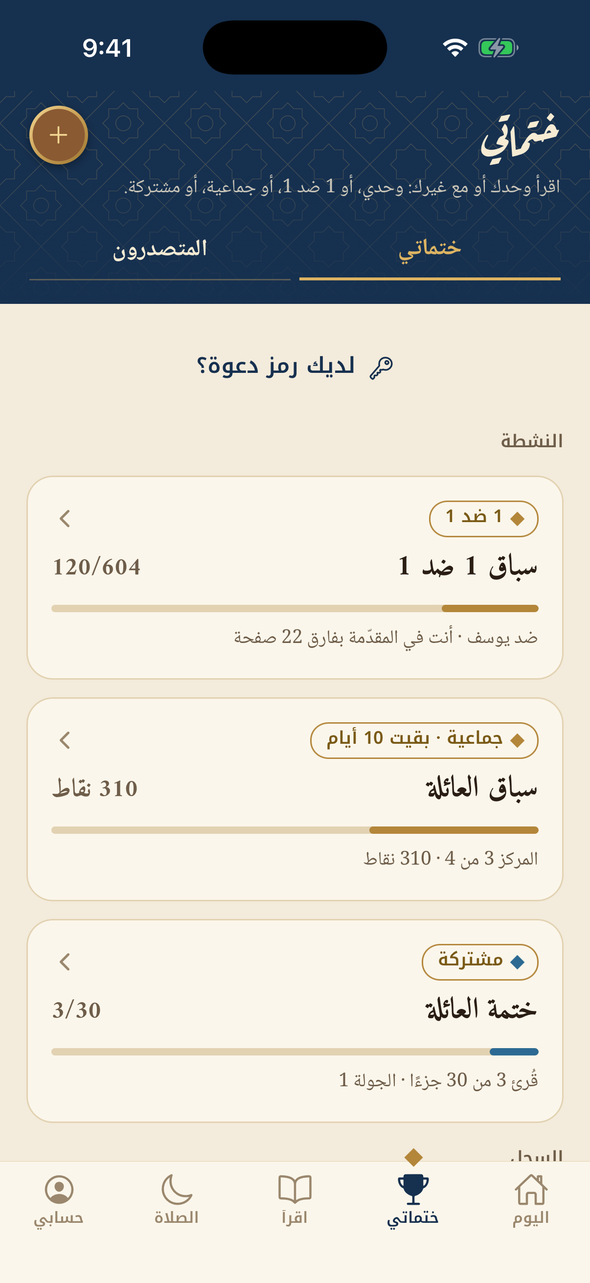
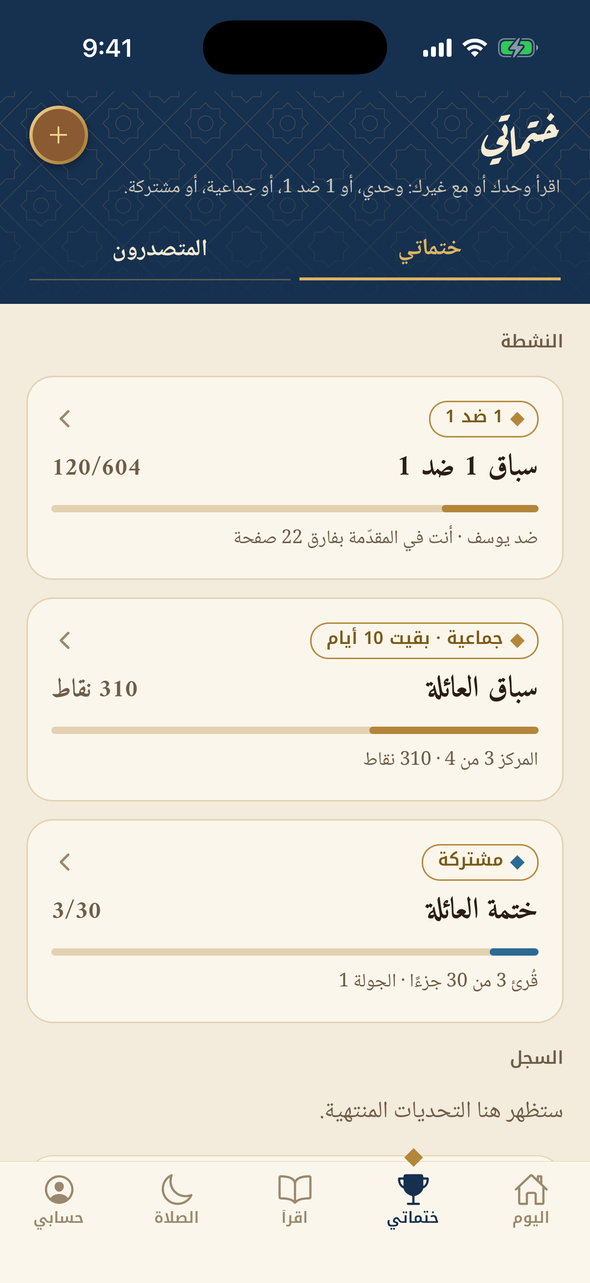
Fresh Arabic screenshots (Today, reader, prayer, new khatmah, my khatmahs); Qatar live; offline reader

diff --git a/README.md b/README.md
@@ -21,7 +21,7 @@ The app is fully bilingual. Arabic is right-to-left from the first screen, and E
 
 ## Features
 
-**Mushaf reader.** The Madinah Mushaf, page by page, with surah and juz headers, search and tafsir al-Muyassar. Your bookmark carries over between sessions, so free reading always continues from your last page.
+**Mushaf reader.** The Madinah Mushaf, page by page, with surah and juz headers, search and tafsir al-Muyassar, all built into the app so it works offline. Your bookmark carries over between sessions, so free reading always continues from your last page.
 
 **Four ways to read a khatmah.**
 
@@ -38,7 +38,7 @@ Friends join with an invite code or link.
 
 **Leaderboard.** An opt-in public board, weekly and monthly, ranked by days read in the app. You choose whether to appear, and can show only your flag instead of your name.
 
-**Prayer times from official sources.** Times come from each country's religious authority rather than a generic calculation: the Ministry of Endowments and Religious Affairs in Oman, the Umm al-Qura calendar in Saudi Arabia, and the General Authority of Islamic Affairs and Endowments in the UAE. Qatar, Kuwait and Bahrain are next. Pick your governorate on a map during setup.
+**Prayer times from official sources.** Times come from each country's religious authority rather than a generic calculation: the Ministry of Endowments and Religious Affairs in Oman, the Umm al-Qura calendar in Saudi Arabia, and the General Authority of Islamic Affairs, Endowments and Zakat in the UAE, and the Ministry of Awqaf and Islamic Affairs in Qatar (Doha). Kuwait and Bahrain are next. Pick your governorate on a map during setup.
 
 **Mishkat design.** A parchment-and-lapis look with gold accents, an eight-pointed star motif and Arabic calligraphic type, in day and night appearance.
 
@@ -100,19 +100,19 @@ Khitam is in active development and is being prepared for the App Store and Goog
 - **أربعة أنواع من الختمات:** وحدي، وسباق ١ ضد ١، وسباق جماعي بالنقاط، وختمة مشتركة يتقاسم فيها الأهل الأجزاء الثلاثين.
 - **تحديات اليوم:** سورة الكهف يوم الجمعة قبل المغرب، وسورة الملك في الليل، مع تذكير في وقتها.
 - **لوحة المتصدرين:** أسبوعية وشهرية بحسب أيام القراءة، والظهور فيها باختيارك.
-- **مواقيت الصلاة من مصادرها الرسمية:** وزارة الأوقاف والشؤون الدينية في سلطنة عُمان، وتقويم أم القرى في السعودية، والهيئة العامة للشؤون الإسلامية والأوقاف في الإمارات، وقطر والكويت والبحرين قريبًا.
+- **مواقيت الصلاة من مصادرها الرسمية:** وزارة الأوقاف والشؤون الدينية في سلطنة عُمان، وتقويم أم القرى في السعودية، والهيئة العامة للشؤون الإسلامية والأوقاف والزكاة في الإمارات، ووزارة الأوقاف والشؤون الإسلامية في قطر (الدوحة)، والكويت والبحرين قريبًا.
 - **تصميم مشكاة:** ألوان الرَّق واللازورد والذهب، ونجمة ثمانية، وخطوط عربية، بمظهر نهاري وليلي.
 
 <table>
   <tr>
-    <td align="center"><img src="assets/screens/ar-welcome.png" width="200"><br><sub>الترحيب</sub></td>
     <td align="center"><img src="assets/screens/ar-today.png" width="200"><br><sub>اليوم</sub></td>
-    <td align="center"><img src="assets/screens/ar-khatmahs.png" width="200"><br><sub>ختماتي</sub></td>
+    <td align="center"><img src="assets/screens/ar-reader.png" width="200"><br><sub>المصحف</sub></td>
+    <td align="center"><img src="assets/screens/ar-prayers.png" width="200"><br><sub>الصلاة</sub></td>
   </tr>
   <tr>
-    <td align="center"><img src="assets/screens/ar-prayers.png" width="200"><br><sub>الصلاة</sub></td>
-    <td align="center"><img src="assets/screens/ar-signin.png" width="200"><br><sub>تسجيل الدخول</sub></td>
-    <td align="center"><img src="assets/screens/ar-profile.png" width="200"><br><sub>حسابي</sub></td>
+    <td align="center"><img src="assets/screens/ar-wizard.png" width="200"><br><sub>ختمة جديدة</sub></td>
+    <td align="center"><img src="assets/screens/ar-khatmahs.png" width="200"><br><sub>ختماتي</sub></td>
+    <td align="center"><img src="assets/screens/ar-welcome.png" width="200"><br><sub>الترحيب</sub></td>
   </tr>
 </table>
 
